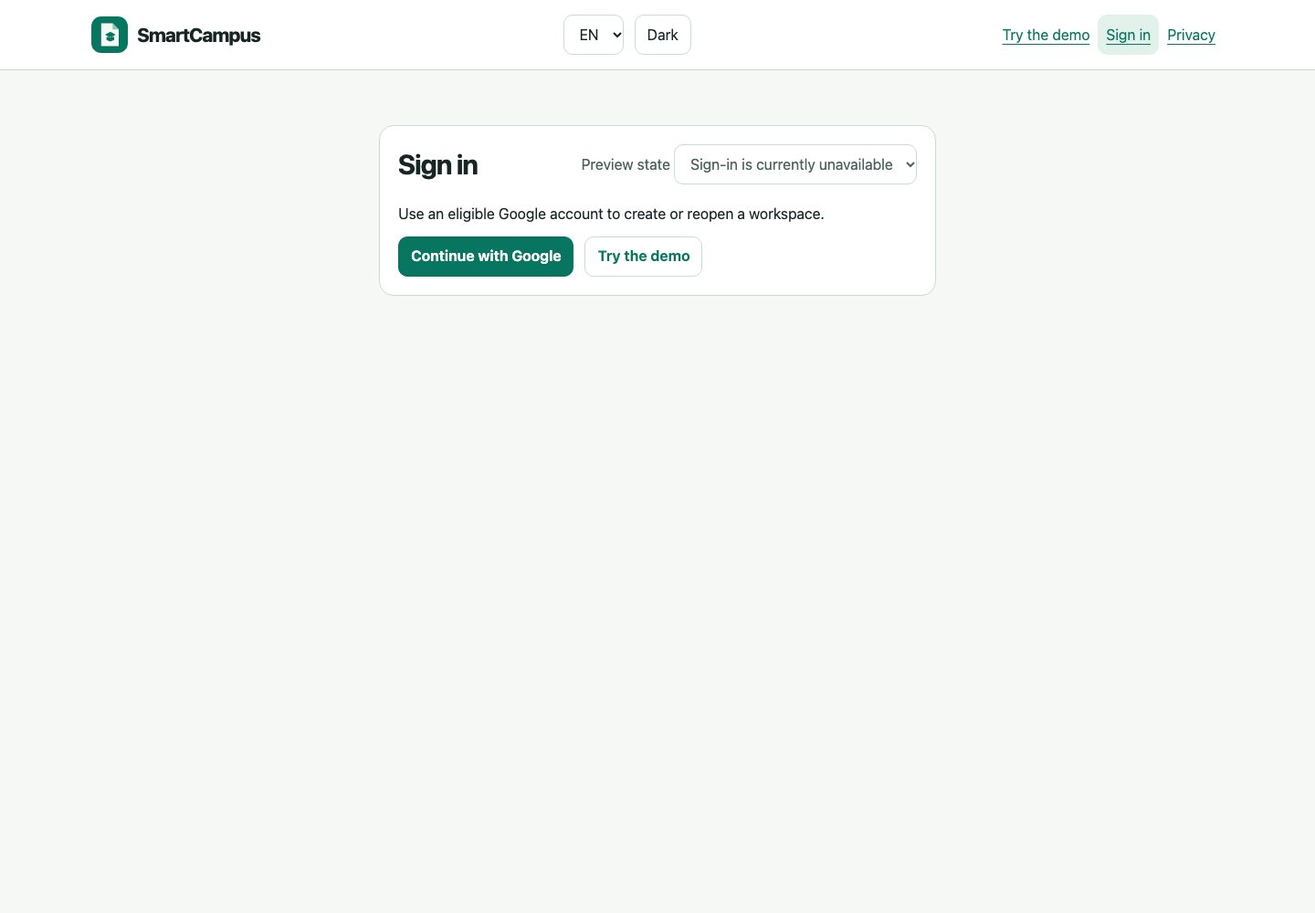
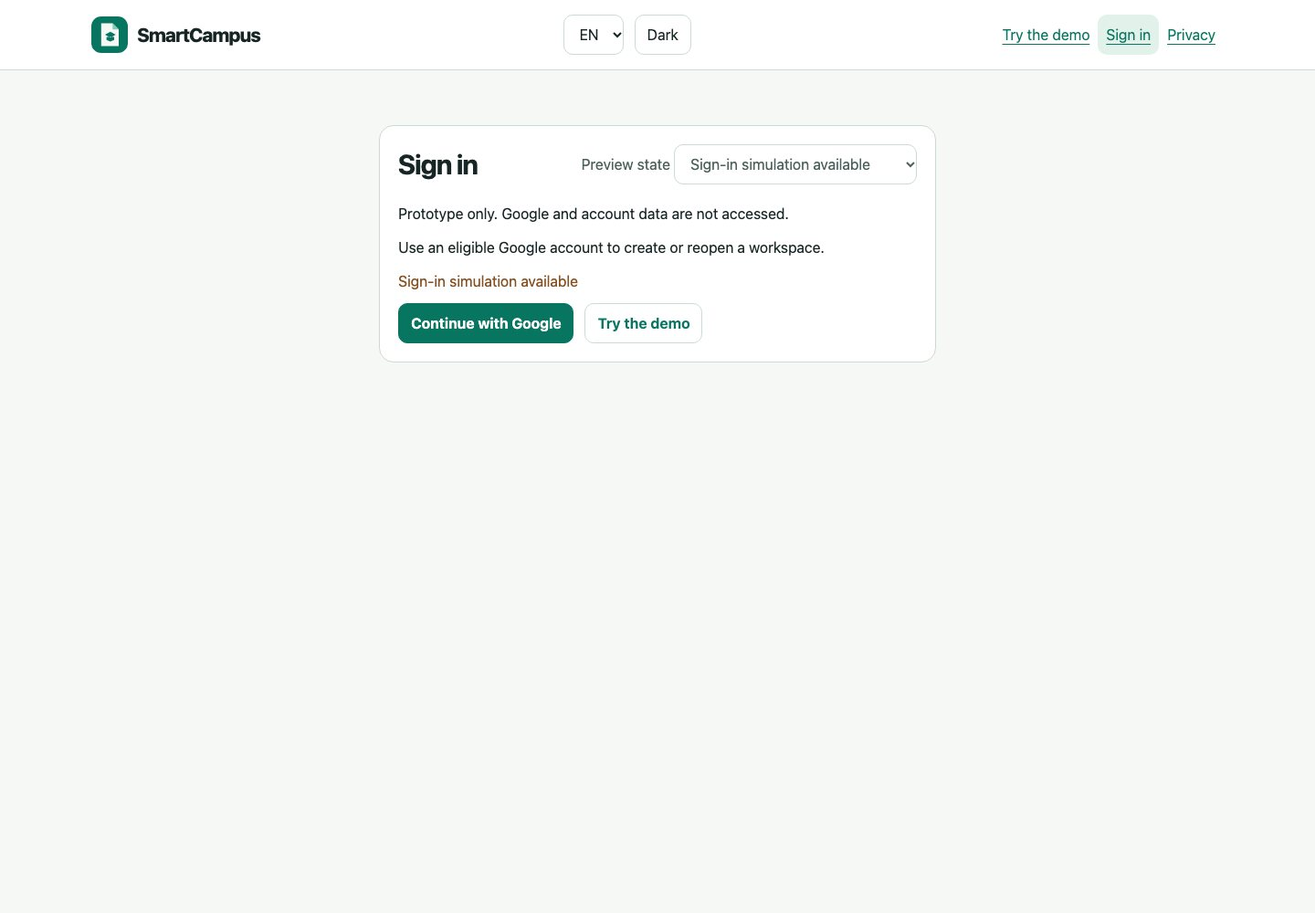
Resolve FINAL-02 sign-in and synthetic preview review findings

Changed region(s): [[0.2812, 0.217, 0.625, 0.403], [0.5625, 0.155, 0.6875, 0.186]]

diff --git a/docs/final-exam/design/prototype/prototype.js b/docs/final-exam/design/prototype/prototype.js
@@ -16,15 +16,13 @@ const candidateExcerpt = 'Interview plan — November 30, 2026. Bring one partic
 const excerpt = 'Research brief — November 30, 2026. Include your research question and two interview prompts.';
 const t = key => copy[key][languages.indexOf(locale)];
 const keyStates = {
-  signin:['held','cancelled','expired','denied','connected'],
-  callback:['loading','cancelled','expired','denied','connected'],
   courses:['ready','empty','loading','error','quota','successful'],
   course:['ready','pending','uploading','processing','duplicate','failed','deleting','empty','loading','error','successful'],
   thread:['ready','empty','loading','insufficient','provider','quota'],
   deadlines:['ready','empty','loading','error','successful'],
   settings:['ready','deleting','error','successful'],
   admin:['ready','loading','denied','unavailable','empty'],
-  guest:['synthetic','live']
+  guest:['synthetic','simulatedLive']
 };
 const route = () => location.hash.slice(1) || '/';
 const link = (href,key,css='') => `<a class="${css}" href="#${href}" ${route()===href?'aria-current="page"':''}>${t(key)}</a>`;
@@ -35,8 +33,9 @@ const status = (key, css='') => `<p role="status" class="${css}">${t(key)}</p>`;
 const date = () => new Intl.DateTimeFormat(locale,{dateStyle:'medium',timeZone:'Asia/Almaty'}).format(new Date('2026-11-30T12:00:00+05:00'));
 const guest = () => route().startsWith('/demo');
 const coursePath = () => guest() ? '/demo/course/design-research' : '/app/courses/design-research';
-const banner = () => `<p class="banner">${t(guest()?(state==='live'?'live':'synthetic'):'owned')}</p>`;
-const statePicker = screen => keyStates[screen] ? `<label class="muted">${t('state')} <select id="state">${keyStates[screen].map((key,index)=>`<option value="${index===0?'':key}" ${state===key?'selected':''}>${t(key)}</option>`).join('')}</select></label>` : '';
+const banner = () => `<p class="banner">${t(guest()?(state==='simulatedLive'?'simulatedLive':'synthetic'):'owned')}</p>`;
+const pickerCopy = {synthetic: 'previewReplay', simulatedLive: 'previewSimulatedLive'};
+const statePicker = screen => keyStates[screen] ? `<label class="muted">${t('state')} <select id="state">${keyStates[screen].map((key,index)=>`<option value="${index===0?'':key}" ${state===key?'selected':''}>${t(pickerCopy[key] || key)}</option>`).join('')}</select></label>` : '';
 const renderState = (key,css='') => status(state || key,css);
 
 function header() {
@@ -57,9 +56,24 @@ function landing() {
 }
 
 function auth(screen) {
-  return `<section class="card narrow">${heading(screen==='signin'?'signin':'callback',statePicker(screen))}
-    <p>${t('signIntro')}</p>${screen==='signin'&&workspacePreview&&!state?'':renderState(screen==='signin'?'held':'loading','warm')}
-    <div class="actions">${screen==='signin'?(workspacePreview?link('/auth/callback','google','button primary'):''):link('/signin','retry','button')}${state==='connected'?link('/app/courses','workspace','button primary'):''}${link('/demo','demo','button')}</div></section>`;
+  const signIn = screen === 'signin';
+  const states = workspacePreview
+    ? [signIn ? 'authAvailable' : 'authLoading', 'held', 'cancelled', 'authFailed', 'expired', 'denied', ...(signIn ? ['authLoading'] : ['connected'])]
+    : ['held'];
+  const current = states.includes(state) ? state : states[0];
+  const picker = `<label class="muted">${t('state')} <select id="state" ${states.length===1?'disabled':''}>${states.map(key=>`<option value="${key}" ${current===key?'selected':''}>${t(key)}</option>`).join('')}</select></label>`;
+  const actions = {
+    authAvailable: link('/auth/callback','google','button primary'),
+    cancelled: button('retryAuth','retry'),
+    authFailed: button('retryAuth','retry'),
+    expired: button('retryAuth','retry'),
+    denied: button('retryAuth','retry'),
+    connected: link('/app/courses','workspace','button primary')
+  };
+  return `<section class="card narrow">${heading(signIn?'signin':'callback',picker)}
+    <p>${t('authSimulation')}</p>${current==='authAvailable'?`<p>${t('signIntro')}</p>`:''}
+    ${status(current,current==='authFailed'?'danger':'warm')}
+    <div class="actions">${actions[current] || ''}${link('/demo','demo','button')}</div></section>`;
 }
 
 function courses() {
@@ -159,6 +173,10 @@ const actions = {
   candidateSource() { dialog('source',`<p>${t('citation')} · ${t('original')}</p><blockquote lang="en">${candidateExcerpt}</blockquote>`); },
   sample() { state=''; answerShown=true; redraw('[data-action="sample"]'); },
   newChat() { state=''; answerShown=false; redraw('#question'); },
+  retryAuth() {
+    if (route()==='/signin') { state='authAvailable'; redraw('main a.primary'); }
+    else location.hash='/signin';
+  },
   reset() { state=''; redraw('#state'); },
   upload() { state='uploading'; redraw('#state'); },
   retryUpload() { state='processing'; redraw('#state'); },

diff --git a/docs/final-exam/design/prototype/strings.js b/docs/final-exam/design/prototype/strings.js
@@ -15,9 +15,15 @@ export const copy = {
   cancelled:['Sign-in cancelled','Вход отменён','Кіру тоқтатылды'],
   expired:['Sign-in expired','Время входа истекло','Кіру мерзімі аяқталды'],
   held:['Sign-in is currently unavailable','Вход пока недоступен','Кіру әзірге қолжетімсіз'],
-  connected:['Workspace verified','Доступ подтверждён','Кеңістік расталды'],
-  synthetic:['Synthetic demo · Example replay','Демо · Пример ответа','Демо · Үлгі жауап'],
-  live:['Synthetic demo · Live sample','Демо · Ответ в реальном времени','Демо · Тікелей үлгі'],
+  authAvailable:['Sign-in simulation available','Симуляция входа доступна','Кіру симуляциясы қолжетімді'],
+  authLoading:['Simulating sign-in verification','Симуляция проверки входа','Кіруді тексеру симуляциясы'],
+  authFailed:['Simulated sign-in failed','Ошибка симуляции входа','Кіру симуляциясы сәтсіз аяқталды'],
+  authSimulation:['Prototype only. Google and account data are not accessed.','В прототипе нет подключения к Google и доступа к данным аккаунта.','Бұл прототип Google қызметіне қосылмайды және есептік жазба деректерін пайдаланбайды.'],
+  connected:['Simulated sign-in succeeded','Симуляция входа завершилась успешно','Кіру симуляциясы сәтті аяқталды'],
+  synthetic:['Synthetic demo · Example replay','Демо на синтетических данных · Готовый ответ','Синтетикалық деректері бар демо · Дайын жауап'],
+  previewReplay:['Example replay','Готовый ответ','Дайын жауап'],
+  previewSimulatedLive:['Simulated live mode','Имитация живого режима','Тікелей режим симуляциясы'],
+  simulatedLive:['Synthetic demo · Simulated live mode · Example replay','Демо на синтетических данных · Имитация живого режима · Готовый ответ','Синтетикалық деректері бар демо · Тікелей режим симуляциясы · Дайын жауап'],
   owned:['Personal workspace · Prototype data','Личное пространство · Данные прототипа','Жеке кеңістік · Прототип деректері'],
   courses:['Courses','Курсы','Курстар'], course:['Design Research','Исследования в дизайне','Дизайн зерттеулері'],
   syllabus:['Course syllabus','Программа курса','Курс бағдарламасы'],
@@ -47,7 +53,7 @@ export const copy = {
   undated:['Week 8 · No exact date','Неделя 8 · Точной даты нет','8-апта · Нақты күні жоқ'],
   extracted:['From source','Из источника','Дереккөзден'], manual:['Manual','Вручную','Қолмен'],
   confirm:['Confirm','Подтвердить','Растау'], reject:['Reject','Отклонить','Қабылдамау'],
-  addDeadline:['Add deadline','Добавить срок','Мерзім қосу'], edit:['Edit','Изменить','Өзгерту'],
+  addDeadline:['Add deadline','Добавить дедлайн','Тапсыру мерзімін қосу'], edit:['Edit','Изменить','Өзгерту'],
   complete:['Mark complete','Отметить выполненным','Аяқталды деп белгілеу'],
   upload:['Upload PDF or DOCX','Загрузить PDF или DOCX','PDF немесе DOCX жүктеу'],
   pending:['Waiting to upload','Ожидает загрузки','Жүктеу кезегінде'], uploading:['Uploading','Загружается','Жүктелуде'],

diff --git a/docs/final-exam/tasks/FINAL-02.md b/docs/final-exam/tasks/FINAL-02.md
@@ -13,7 +13,7 @@
 | Original due / acceptance | 2026-11-25 13:30 / 15:00 Asia/Almaty, elapsed |
 | Baseline | Approved `4aeb0a178f992c6585688ed48c8ed59e4d83e6aa`; observed main and PR base `34275e2a8ffcc0378efb74e5f20200334a1e421c`, a descendant |
 | Review revision | Branch `codex/final-02-workspace-design`; exact delivery SHA and URL in ClickUp review notice |
-| Evidence revision | Design tree `f4bb3c42d3c99915f7e59d4c0503a09dabdf11cd` |
+| Evidence revision | Design tree `d1e57518a40e84ac75b583d45bc64c64c78cf217` |
 | Acceptance / merge | Pending independent reviewer decision |
 | Effort | Planned 110 active owner minutes, 55 human touch subset, 100 agent-only minutes and 15 rework reserve. Actual human and agent-only minutes unknown. |
 
@@ -21,21 +21,21 @@
 
 - [UX handoff](../design/UX_HANDOFF.md) with two visual directions, desktop and compact layouts, route/state/API/key mapping and editable browser frames.
 - [Design tokens](../design/tokens-v2.json), [asset provenance](../design/ASSETS.md) and [localization glossary](../design/LOCALE_GLOSSARY.md).
-- [Evidence manifest](../evidence/FINAL-02/captures.json) with EV-FINAL-02-01–10, [browser output](../evidence/FINAL-02/browser-check.log), [consumer handoffs](../handoffs/FINAL-02.md), [activity](../activity/FINAL-02.csv) and [contribution](../contributions/FINAL-02.json).
+- [Evidence manifest](../evidence/FINAL-02/captures.json) with EV-FINAL-02-01–14, [browser output](../evidence/FINAL-02/browser-check.log), [consumer handoffs](../handoffs/FINAL-02.md), [activity](../activity/FINAL-02.csv) and [contribution](../contributions/FINAL-02.json).
 - Runtime React, existing SIS behavior, backend, database and infrastructure are outside this design commit.
 
 ## Actual checks
 
-Serve `docs/final-exam/design` using `python3 -m http.server 8769 --bind 127.0.0.1`. From the repository root run `DESIGN_TREE=f4bb3c42d3c99915f7e59d4c0503a09dabdf11cd node docs/final-exam/design/prototype/check.cjs` using the existing frontend Playwright install. The script regenerates local evidence.
+Serve `docs/final-exam/design` using `python3 -m http.server 8769 --bind 127.0.0.1`. From the repository root run `DESIGN_TREE=d1e57518a40e84ac75b583d45bc64c64c78cf217 node docs/final-exam/design/prototype/check.cjs` using the existing frontend Playwright install. The script regenerates local evidence.
 
 | Case | Expected | Observed |
 | --- | --- | --- |
 | Route/locale matrix | Render all 12 screens in EN/RU/KK at both widths. | 72 renders passed. The first mobile pass exposed select overflow on the thread screen. A constrained control width cleared it on retest. |
-| Theme and copy | All dictionary tuples populated. Selected text combinations meet 4.5:1. | 93 keys and 16 light/dark contrast pairs passed. Minimum sampled contrast 4.85:1. |
+| Theme and copy | All dictionary tuples populated. Selected text combinations meet 4.5:1. | 99 keys and 16 light/dark contrast pairs passed. Minimum sampled contrast 4.85:1. |
 | Guest → source | Keyboard skip, open source, read original excerpt and return focus after Escape. Compact document button reveals the correct pane. | Passed at both widths. Demo made zero external requests and offered no upload control. |
 | Guest → auth → personal preview | Switch between held and workspace profile, cancel, show the simulated successful callback, return to course list and recover from empty/error. | Passed. Auth was simulated. |
 | Upload and dates | Show progress, failure and retry. Open the candidate source and explicitly confirm date. | Passed at both widths. File selection and persistence are runtime work. |
-| Visual review | Readable hierarchy at 1440 and 375. | Visually inspected landing and compact chat captures. Ten local Chromium images recorded. |
+| Visual review | Readable hierarchy at 1440 and 375. | Visually inspected landing and compact chat captures. Fourteen local Chromium images recorded. |
 
 ## Reviewer checklist
 
@@ -46,7 +46,7 @@ Serve `docs/final-exam/design` using `python3 -m http.server 8769 --bind 127.0.0
 
 ## Limits and assumptions
 
-The published ClickUp pages governed independent design. FINAL-01 branch `6bb2b0e3c779803a85373f8331d5947e458936d1` supplied preliminary repository schemas. Its accepted main revision and coordinator confirmation should be reconciled before implementation reliance. FINAL-04's frozen fixture schema and FINAL-05's environment decisions were unavailable on observed main. Figma required reauthentication. The local HTML/CSS/JS source is the editable fallback. Native linguistic review and physical device/assistive technology checks remain pending. Browser captures use a local Chromium engine. No hosted evidence, user feedback, live OAuth, private data, ingestion or live assistant results are claimed.
+The published ClickUp pages governed independent design. FINAL-01 was conditionally accepted and integrated through [PR #50](https://github.com/yerassyl-clou/SmartCampus/pull/50) at main `6a5798d1a398b2512b9809e0e3b96fc14377a0b4`. Its ledger approves the original execution baseline. FINAL-04 had no frozen fixture on that main. FINAL-05 draft `02e3872e14038c5420c4c3c5321ee84364459bec` retains an OAuth and personal data hold and allows local replay preparation. Figma required reauthentication. The local HTML/CSS/JS source is the editable fallback. Native linguistic review and physical device/assistive technology checks remain pending. Browser captures use a local Chromium engine. No hosted evidence, user feedback, live OAuth, private data, ingestion or live assistant results are claimed.
 
 ## Slide-ready material
 
@@ -64,6 +64,18 @@ Use the [dark mobile source tab](../evidence/FINAL-02/EV-FINAL-02-10-guest-sourc
 
 **On slide** “72 route and locale renders across two widths. The design includes both themes and an offline synthetic demo.”
 
-**Speaker notes** “The browser checks exercised citation focus return, state recovery and guest boundaries. Full product verification follows after the signed design handoff, including server eligibility and release-mode controls.”
+**Speaker notes** “The browser checks exercised citation focus return, state recovery and guest boundaries. The simulated live label identifies authored replay. Full product verification follows after the signed design handoff, including server eligibility and release-mode controls.”
 
 **AI disclosure** Codex assisted with source review, draft interface and translations, original SVG paths, test authoring and delivery documentation. Chromium via Playwright produced the screenshots. Human language validation and the formal review decision remain pending.
+
+## Review corrections · 2.0.0-review.2
+
+The [review at the first head](https://github.com/yerassyl-clou/SmartCampus/pull/51#pullrequestreview-6075357784) identified an auth selector that showed a hold beside an enabled action and a misleading live demo label. The corrected auth picker and CTA share the same resolved state. Workspace preview supports available, loading, held, cancelled, failed and simulated success. Public-demo sign-in and callback remain held. The guest preview uses short localized selector labels and a wrapping provenance banner that identifies the simulation and the example replay.
+
+The Chromium regression runs these cases for all 12 width × locale × theme combinations. It checks Google-action visibility, failure retry, callback loading and simulated success, direct public callback hold, synthetic fixture replay, lack of upload, zero external requests and no page errors. The affected images were inspected in the running Chromium prototype.
+
+| Variant | 1440 px | 375 px |
+| --- | --- | --- |
+| Simulated sign-in available | [EV-02](../evidence/FINAL-02/EV-FINAL-02-02-signin-1440.jpg) | [EV-07](../evidence/FINAL-02/EV-FINAL-02-07-signin-375.jpg) |
+| Sign-in held | [EV-11](../evidence/FINAL-02/EV-FINAL-02-11-signin-held-1440.jpg) | [EV-12](../evidence/FINAL-02/EV-FINAL-02-12-signin-held-375.jpg) |
+| Simulated live replay, dark | [EV-13](../evidence/FINAL-02/EV-FINAL-02-13-simulated-live-dark-1440.jpg) | [EV-14](../evidence/FINAL-02/EV-FINAL-02-14-simulated-live-dark-375.jpg) |

diff --git a/docs/final-exam/design/UX_HANDOFF.md b/docs/final-exam/design/UX_HANDOFF.md
@@ -1,6 +1,6 @@
 # SmartCampus V2 design handoff
 
-Version 2.0.0-review.1 · FINAL-02 · Danaya Aliyeva · Review candidate
+Version 2.0.0-review.2 · FINAL-02 · Danaya Aliyeva · Review candidate
 
 ## Direction
 
@@ -12,7 +12,7 @@ The folded-page mark combines course material with a campus cap. Flat surfaces, 
 
 ## Editable frames
 
-Serve this directory with `python3 -m http.server 8769 --bind 127.0.0.1`. Open [the prototype](prototype/index.html) at `http://127.0.0.1:8769/prototype/`. The browser combines the hash fragment as a design-frame identifier with the optional `?profile=workspace` query before the hash. The default demonstrates the public-demo CTA hold. The workspace profile is a visual simulation. Use the localized **Preview state** control to inspect variants. Personal URLs and figures are synthetic and directly inspectable for design review.
+Serve this directory with `python3 -m http.server 8769 --bind 127.0.0.1`. Open [the prototype](prototype/index.html) at `http://127.0.0.1:8769/prototype/`. The browser combines the hash fragment as a design-frame identifier with the optional `?profile=workspace` query before the hash. The default demonstrates the public-demo CTA hold. The workspace profile is a visual simulation. The sign-in frame offers separate available and held variants. The simulated Google action appears only in the available state. A direct callback in the default profile remains held. Use the localized **Preview state** control to inspect variants. Personal URLs and figures are synthetic and directly inspectable for design review.
 
 Edit [markup and interactions](prototype/prototype.js), [styles](prototype/style.css), [strings](prototype/strings.js) and [tokens](tokens-v2.json). Chromium evidence is indexed in [captures](../evidence/FINAL-02/captures.json). Use viewport 1440×1000 or 375×812 and the in-header theme and language controls. Figma required reauthentication at execution. These authored source files are the editable fallback.
 
@@ -37,9 +37,9 @@ API paths below use the approved preliminary `/api/v2` prefix. OAuth uses the ap
 | --- | --- | --- | --- |
 | `/` | Landing, product sample, enabled Google or launch hold | Approved release profile, synthetic illustration | workspace, headline, intro, demo, google, held, privacy |
 | `/privacy` | Privacy notice, return to demo | Versioned notice copy, acknowledgement via POST /session/consent when eligible | privacy, privacyText, demo |
-| `/signin` and `/auth/callback` | OAuthEntry, hold, loading, cancelled, expired, denied and verified | Supabase OIDC + GET /session. Show hold for invalid or unavailable configuration. Successful callback clears authorization parameters. | signin, signIntro, google, held, callback, loading, cancelled, expired, denied, connected, retry |
-| `/demo` | GuestCourses, synthetic banner and mode-appropriate CTA | Embedded fixture in offline mode. GET /demo only for an enabled synthetic API adapter. | synthetic, live, courses, course, openCourse, syllabus, brief, google, held |
-| `/demo/course/:slug` | GuestCourse, read-only source, authored sample and deadlines. Example replay on live budget hold. | Fixture by slug. Approved live mode POST /demo/chat with curated slug and locale. | synthetic, live, course, documents, chat, deadlines, scope, question, answer, citation, source, original, extracted |
+| `/signin` and `/auth/callback` | OAuthEntry, available, hold, loading, cancelled, failed, expired, denied and simulated success | Supabase OIDC + GET /session. Show hold for invalid or unavailable configuration. Successful callback clears authorization parameters. | signin, signIntro, google, held, callback, authAvailable, authLoading, authSimulation, authFailed, cancelled, expired, denied, connected, retry |
+| `/demo` | GuestCourses, synthetic banner and mode-appropriate CTA | Embedded fixture in offline mode. GET /demo only for an enabled synthetic API adapter. | synthetic, simulatedLive, courses, course, openCourse, syllabus, brief, google, held |
+| `/demo/course/:slug` | GuestCourse, read-only source, authored sample and deadlines. The prototype’s simulated live mode always replays an authored example. Runtime uses example replay on live budget hold. | Fixture by slug. Approved live mode POST /demo/chat with curated slug and locale. | synthetic, simulatedLive, course, documents, chat, deadlines, scope, question, answer, citation, source, original, extracted |
 | `/app/courses` | CourseList/Editor, list, create, empty, loading, error, success and quota | GET/POST /courses. Show names, document counts and nearest deadline. | owned, courses, addCourse, label, course, openCourse, loading, empty, error, successful, retry, quota |
 | `/app/courses/:id` | CourseWorkspace, CourseEditor, DocumentList, UploadProgress. Pending, uploading, processing, ready, duplicate, failed, deleting. | GET/PATCH/DELETE /courses/{id}; GET /courses/{id}/documents; POST /courses/{id}/uploads; reserved private TUS; POST /documents/{id}/finalize or /retry; DELETE /documents/{id}; GET /documents/{id}/source | documents, upload, pending, uploading, processing, ready, duplicate, failed, deleting, remove, rename, history, newChat, retry, source |
 | `/app/courses/:id/chats/:id` | ThreadHistory, Composer, Answer and CitationDialog. Empty, sending, grounded, insufficient, provider error and quota. | GET/POST /courses/{id}/threads; GET/POST /threads/{id}/messages; GET /documents/{id}/source. Do not render a citation for insufficient answers. | chat, history, newChat, emptyChat, ask, send, scope, loading, question, answer, citation, insufficient, provider, quota, source, original |

diff --git a/docs/final-exam/handoffs/FINAL-02.md b/docs/final-exam/handoffs/FINAL-02.md
@@ -1,6 +1,6 @@
 # FINAL-02 design handoffs
 
-Contract version **2.0.0-review.1** · Danaya Aliyeva · packet prepared 2026-11-26T18:36:14+05:00. Exact design tree `f4bb3c42d3c99915f7e59d4c0503a09dabdf11cd`. Review branch `codex/final-02-workspace-design`. The [review notice](https://app.clickup.com/t/z8q7hby8dg) records the exact PR and head. Read the [task packet](../tasks/FINAL-02.md) and [evidence manifest](../evidence/FINAL-02/captures.json) for validation and mode limits.
+Contract version **2.0.0-review.2** · Danaya Aliyeva · review corrections verified 2026-11-28T00:00:49.049+05:00. Exact design tree `d1e57518a40e84ac75b583d45bc64c64c78cf217`. Review branch `codex/final-02-workspace-design`. The [review notice](https://app.clickup.com/t/z8q7hby8dg) records the exact PR and head. Read the [task packet](../tasks/FINAL-02.md) and [evidence manifest](../evidence/FINAL-02/captures.json) for validation and mode limits.
 
 | Handoff ID | From → to | State | Original deadline, Asia/Almaty | Artifact and next action | Prerequisite, limitation and recovery |
 | --- | --- | --- | --- | --- | --- |
@@ -13,7 +13,7 @@ Contract version **2.0.0-review.1** · Danaya Aliyeva · packet prepared 2026-11
 
 ## FINAL-06 preparation at the review gate
 
-- Compare the accepted FINAL-01 mirror with the published V2 route and mode definitions. The latest inspected accepted main has no merged FINAL-01 mirror. The preliminary branch supplies delivery schemas for this packet.
+- Compare the accepted FINAL-01 mirror with the published V2 route and mode definitions. The FINAL-01 mirror is integrated through PR #50 at main `6a5798d1a398b2512b9809e0e3b96fc14377a0b4`. The ledger approves the execution baseline and records conditional acceptance.
 - Read FINAL-04's versioned `contracts/API_V2.md` and `api-v2-fixtures.json` when delivered. The published baseline allows offline fixture-only guest routes. The authored preview supplies a synthetic course, syllabus excerpt, explicitly dated deadline and curated replay for visual verification. Map these to R04's accepted fixtures before using runtime adapters.
-- Validate FINAL-05's environment and release disposition with Yerassyl. Use a held-auth visual state until the approved configuration is available. Personal route guards must wait for server-verified `GET /session` eligibility.
+- Validate FINAL-05's environment and release disposition with Yerassyl. The FINAL-05 draft permits local synthetic replay and keeps personal processing and OAuth held pending verification. Use the held-auth visual state until the approved configuration is available. Personal route guards must wait for server-verified `GET /session` eligibility.
 - After the native acceptance gate, implement and test on the separate FINAL-06 branch. Keep provider and release operations under owner control. The prototype controls generate no personal server calls.

diff --git a/docs/final-exam/design/LOCALE_GLOSSARY.md b/docs/final-exam/design/LOCALE_GLOSSARY.md
@@ -11,7 +11,8 @@
 | source | Source excerpt | Фрагмент источника | Дереккөз үзіндісі |
 | deadlines | Deadlines | Сроки | Мерзімдер |
 | candidates | Date candidates | Предложенные даты | Ұсынылған күндер |
-| synthetic | Synthetic demo · Example replay | Демо · Пример ответа | Демо · Үлгі жауап |
+| synthetic | Synthetic demo · Example replay | Демо на синтетических данных · Готовый ответ | Синтетикалық деректері бар демо · Дайын жауап |
+| simulatedLive | Synthetic demo · Simulated live mode · Example replay | Демо на синтетических данных · Имитация живого режима · Готовый ответ | Синтетикалық деректері бар демо · Тікелей режим симуляциясы · Дайын жауап |
 | held | Sign-in is currently unavailable | Вход пока недоступен | Кіру әзірге қолжетімсіз |
 | unavailable | Data unavailable | Данные недоступны | Деректер қолжетімсіз |
 
